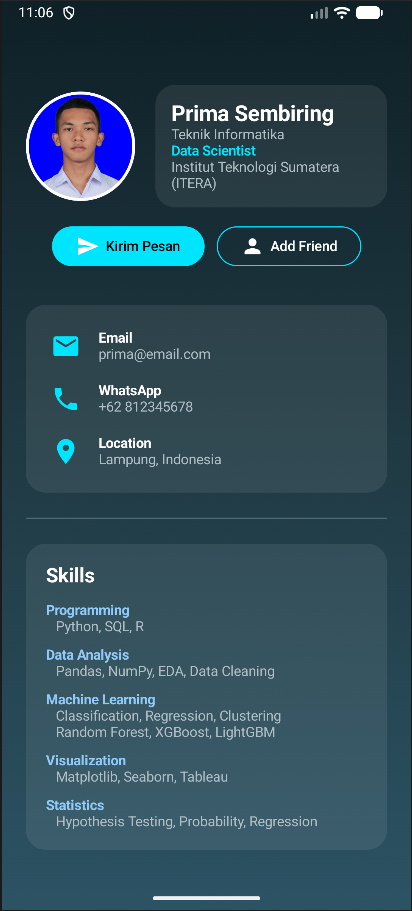
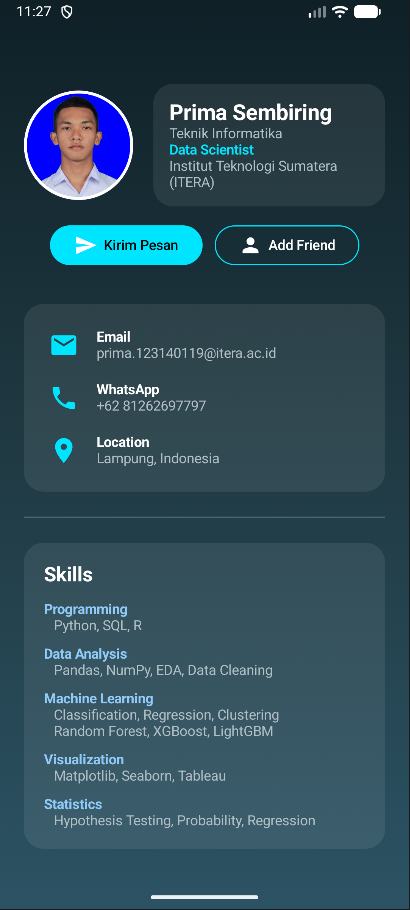
My Profile App

diff --git a/app/src/main/java/com/example/profileapp/MainActivity.kt b/app/src/main/java/com/example/profileapp/MainActivity.kt
@@ -227,8 +227,8 @@ fun ContactCard() {
             verticalArrangement = Arrangement.spacedBy(20.dp)
         ) {
 
-            ContactItem(Icons.Default.Email,"Email","prima@email.com")
-            ContactItem(Icons.Default.Phone,"WhatsApp","+62 812345678")
+            ContactItem(Icons.Default.Email,"Email","prima.123140119@itera.ac.id")
+            ContactItem(Icons.Default.Phone,"WhatsApp","+62 81262697797")
             ContactItem(Icons.Default.LocationOn,"Location","Lampung, Indonesia")
 
         }
